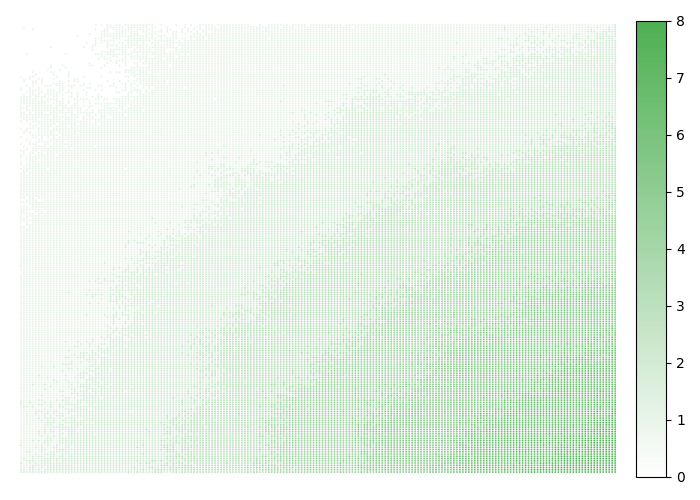
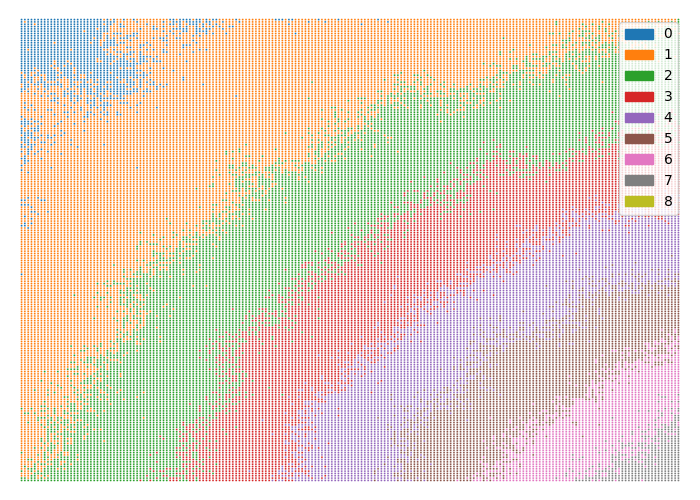
Use discrete legend instead of colorbar for Discrete

diff --git a/main.py b/main.py
@@ -3,6 +3,8 @@ from pathlib import Path
 import pandas as pd
 import matplotlib.pyplot as plt
 from matplotlib.colors import ListedColormap
+from matplotlib.patches import Circle
+import matplotlib as mpl
 import seaborn as sns
 import dhall
 
@@ -20,6 +22,12 @@ def color_to_palette(config, party_to_colorize):
     else:
         # Discrete, return palette name to use
         return c
+
+def color_to_enable_cbar(config):
+    if config['color'] == 'Continuous':
+        return plt.subplots(ncols=2, figsize=(7, 5), width_ratios=[20, 1])
+    fig, ax = plt.subplots(figsize=(7, 5))
+    return fig, [ax]
 
 
 for config in configs:
@@ -43,7 +51,7 @@ for config in configs:
 
         palette = color_to_palette(config, party_to_colorize)
 
-        fig, axes = plt.subplots(ncols=2, figsize=(7, 5), width_ratios=[20, 1])
+        fig, axes = color_to_enable_cbar(config)
         sns.scatterplot(
             data=df_for_party,
             x='x',
@@ -57,16 +65,22 @@ for config in configs:
         axes[0].axis('off')
 
         s = df.seats_for_party
-        matrix = [range(s.min(), s.max() + 1)]
-        psm = axes[1].pcolormesh(
-            matrix,
-            cmap=palette,
-            rasterized=True
-        )
-        fig.colorbar(psm, cax=axes[1])
+        if len(axes) == 2:
+            matrix = [range(s.min(), s.max() + 1)]
+            psm = axes[1].pcolormesh(
+                matrix,
+                cmap=palette,
+                rasterized=True
+            )
+            fig.colorbar(psm, cax=axes[1])
+        elif config['color'] not in {'Continuous', 'Average'}:
+            colors = mpl.colormaps[palette].colors
+            artists = [Circle((0, 0), 1, color=c) for c in colors]
+            axes[0].legend(artists, range(s.max() + 1))
 
         for ax in axes:
             ax.margins(0.01)
+
         plt.tight_layout()
         filename = Path(file).stem
         plt.savefig(f'examples/number-of-seats/{filename}.png')
